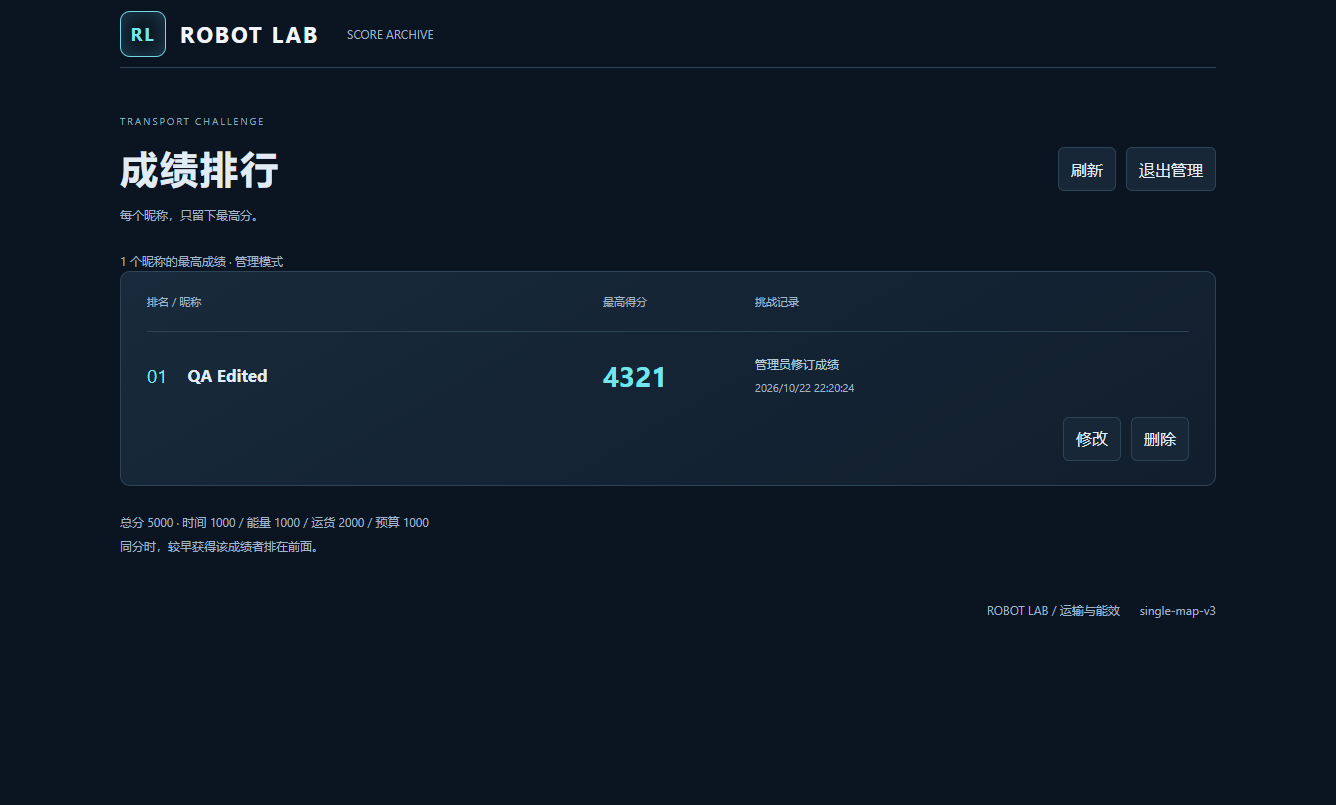
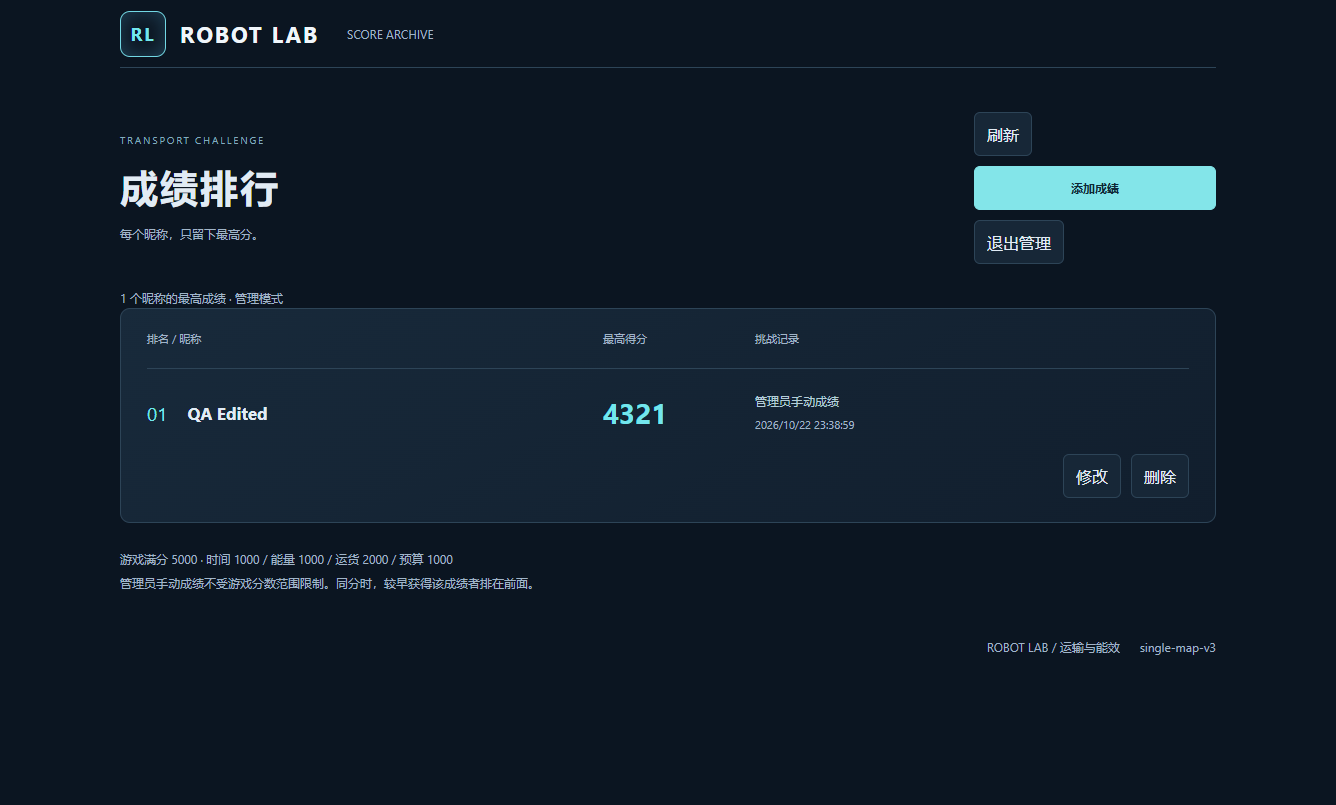
Add admin-created leaderboard entries without game score limits

diff --git a/src/leaderboard/main.ts b/src/leaderboard/main.ts
@@ -1,9 +1,9 @@
 import '../ui/preview.css';
 import './style.css';
-interface Entry {id:string;rank:number;nickname:string;score:number;manual:boolean;achievedAt:string;performance:{elapsedSeconds:number;energyRemainingUnits:number;cargoDelivered:boolean};}
+interface Entry {id:string;rank:number;nickname:string;score:number;manual:boolean;achievedAt:string;performance:{elapsedSeconds:number;energyRemainingUnits:number;cargoDelivered:boolean}|null;}
 interface Board {revision:number;rulesVersion:string;entries:Entry[];}
 const root=document.querySelector<HTMLDivElement>('#leaderboard-app')!;
-root.innerHTML=`<header class="topbar"><div class="brand"><span class="brand-mark">RL</span><span>ROBOT LAB</span></div><span class="muted">SCORE ARCHIVE</span></header><main><section class="board-intro"><div><p class="eyebrow">TRANSPORT CHALLENGE</p><h1>成绩排行</h1><p class="muted">每个昵称，只留下最高分。</p></div><div class="board-actions"><button id="refresh">刷新</button><button id="manage">成绩管理</button><button id="logout" hidden>退出管理</button></div></section><p id="board-status" role="status" class="muted">正在读取成绩…</p><section class="panel board-panel"><div class="board-head"><span>排名 / 昵称</span><span>最高得分</span><span>挑战记录</span></div><div id="entries"></div></section><p class="muted board-note">总分 5000 · 时间 1000 / 能量 1000 / 运货 2000 / 预算 1000<br>同分时，较早获得该成绩者排在前面。</p></main><footer class="preview-footer"><span class="muted">ROBOT LAB / 运输与能效</span><span id="board-version" class="muted"></span></footer><dialog id="admin-dialog" class="board-dialog"><form id="admin-form"><p class="eyebrow">ADMIN ACCESS</p><h2>成绩管理</h2><label for="admin-password">管理密码</label><input id="admin-password" type="password" autocomplete="current-password" required><p id="admin-error" role="alert"></p><div class="dialog-actions"><button type="button" data-close>取消</button><button class="primary" type="submit">登录</button></div></form></dialog><dialog id="edit-dialog" class="board-dialog"><form id="edit-form"><h2>修改成绩</h2><label for="edit-nickname">昵称</label><input id="edit-nickname" maxlength="40" required><label for="edit-score">分数（0–5000）</label><input id="edit-score" type="number" min="0" max="5000" step="1" required><p id="edit-error" role="alert"></p><div class="dialog-actions"><button type="button" data-close>取消</button><button class="primary" type="submit">保存修改</button></div></form></dialog><dialog id="delete-dialog" class="board-dialog"><form id="delete-form"><h2>删除成绩</h2><p id="delete-description"></p><p id="delete-error" role="alert"></p><div class="dialog-actions"><button type="button" data-close>取消</button><button class="danger" type="submit">确认删除</button></div></form></dialog>`;
+root.innerHTML=`<header class="topbar"><div class="brand"><span class="brand-mark">RL</span><span>ROBOT LAB</span></div><span class="muted">SCORE ARCHIVE</span></header><main><section class="board-intro"><div><p class="eyebrow">TRANSPORT CHALLENGE</p><h1>成绩排行</h1><p class="muted">每个昵称，只留下最高分。</p></div><div class="board-actions"><button id="refresh">刷新</button><button id="manage">成绩管理</button><button id="add-entry" class="primary" hidden>添加成绩</button><button id="logout" hidden>退出管理</button></div></section><p id="board-status" role="status" class="muted">正在读取成绩…</p><section class="panel board-panel"><div class="board-head"><span>排名 / 昵称</span><span>最高得分</span><span>挑战记录</span></div><div id="entries"></div></section><p class="muted board-note">游戏满分 5000 · 时间 1000 / 能量 1000 / 运货 2000 / 预算 1000<br>管理员手动成绩不受游戏分数范围限制。同分时，较早获得该成绩者排在前面。</p></main><footer class="preview-footer"><span class="muted">ROBOT LAB / 运输与能效</span><span id="board-version" class="muted"></span></footer><dialog id="admin-dialog" class="board-dialog"><form id="admin-form"><p class="eyebrow">ADMIN ACCESS</p><h2>成绩管理</h2><label for="admin-password">管理密码</label><input id="admin-password" type="password" autocomplete="current-password" required><p id="admin-error" role="alert"></p><div class="dialog-actions"><button type="button" data-close>取消</button><button class="primary" type="submit">登录</button></div></form></dialog><dialog id="edit-dialog" class="board-dialog"><form id="edit-form"><h2 id="entry-title">修改成绩</h2><label for="edit-nickname">昵称</label><input id="edit-nickname" maxlength="40" required><label for="edit-score">分数（整数，不限游戏分数范围）</label><input id="edit-score" type="number" step="1" required><p id="edit-error" role="alert"></p><div class="dialog-actions"><button type="button" data-close>取消</button><button class="primary" type="submit" id="entry-submit">保存修改</button></div></form></dialog><dialog id="delete-dialog" class="board-dialog"><form id="delete-form"><h2>删除成绩</h2><p id="delete-description"></p><p id="delete-error" role="alert"></p><div class="dialog-actions"><button type="button" data-close>取消</button><button class="danger" type="submit">确认删除</button></div></form></dialog>`;
 let board:Board={revision:0,rulesVersion:'',entries:[]},authenticated=false,editing:Entry|null=null,editRevision=0,loading=false;
 const el=<T extends HTMLElement=HTMLElement>(id:string)=>document.getElementById(id) as T;
 class ApiError extends Error {constructor(readonly status:number,message:string){super(message);}}
@@ -13,18 +13,18 @@ async function api(path:string,method='GET',data?:unknown){
 }
 function status(message:string){el('board-status').textContent=message;}
 function render(){
- el('manage').hidden=authenticated;el('logout').hidden=!authenticated;
+ el('manage').hidden=authenticated;el('logout').hidden=!authenticated;el('add-entry').hidden=!authenticated;
  el('board-version').textContent=board.rulesVersion;
  const list=el('entries');list.replaceChildren();
  if(!board.entries.length){const empty=document.createElement('p');empty.className='empty-board';empty.textContent='等待第一份挑战成绩';list.append(empty);}
  for(const entry of board.entries){
-  const row=document.createElement('article');row.className='board-row';row.dataset.id=entry.id;
+  const row=document.createElement('article');row.className='board-row'+(String(entry.score).length>6?' long-score':'');row.dataset.id=entry.id;
   const identity=document.createElement('div');identity.className='board-identity';
   const rank=document.createElement('span');rank.className='rank';rank.textContent=String(entry.rank).padStart(2,'0');
   const name=document.createElement('strong');name.textContent=entry.nickname;identity.append(rank,name);
   const score=document.createElement('strong');score.className='board-score';score.textContent=String(entry.score);
   const metrics=document.createElement('div');metrics.className='board-metrics';
-  const text=document.createElement('span');text.textContent=entry.manual?'管理员修订成绩':`${entry.performance.elapsedSeconds.toFixed(1)} s · 余能 ${entry.performance.energyRemainingUnits.toFixed(1)} · ${entry.performance.cargoDelivered?'已运货':'未运货'}`;
+  const text=document.createElement('span');text.textContent=entry.manual||!entry.performance?'管理员手动成绩':`${entry.performance.elapsedSeconds.toFixed(1)} s · 余能 ${entry.performance.energyRemainingUnits.toFixed(1)} · ${entry.performance.cargoDelivered?'已运货':'未运货'}`;
   const time=document.createElement('small');time.textContent=new Date(entry.achievedAt).toLocaleString('zh-CN',{hour12:false});metrics.append(text,time);
   row.append(identity,score,metrics);
   if(authenticated){const actions=document.createElement('div');actions.className='row-actions';for(const [action,label] of [['edit','修改'],['delete','删除']]){const button=document.createElement('button');button.textContent=label;button.dataset.action=action;button.dataset.id=entry.id;actions.append(button);}row.append(actions);}
@@ -43,10 +43,11 @@ el('logout').onclick=()=>void api('admin/logout','POST',{}).then(()=>{authentica
 root.querySelectorAll<HTMLButtonElement>('[data-close]').forEach(button=>button.onclick=()=>button.closest('dialog')!.close());
 function bindForm(id:string,action:()=>Promise<void>,errorId:string){el<HTMLFormElement>(id).onsubmit=event=>{event.preventDefault();const button=el(id).querySelector<HTMLButtonElement>('button[type=submit]')!;button.disabled=true;el(errorId).textContent='';void action().catch(async error=>{el(errorId).textContent=error.message;if(error instanceof ApiError && error.status===409){await refresh();}if(error instanceof ApiError && error.status===401){authenticated=false;render();}}).finally(()=>button.disabled=false);};}
 bindForm('admin-form',async()=>{await api('admin/login','POST',{password:el<HTMLInputElement>('admin-password').value});el<HTMLInputElement>('admin-password').value='';el<HTMLDialogElement>('admin-dialog').close();await refresh();},'admin-error');
+el('add-entry').onclick=()=>{editing=null;editRevision=board.revision;el('entry-title').textContent='添加成绩';el('entry-submit').textContent='添加成绩';el<HTMLFormElement>('edit-form').reset();el('edit-error').textContent='';el<HTMLDialogElement>('edit-dialog').showModal();};
 el('entries').onclick=event=>{const button=(event.target as HTMLElement).closest<HTMLButtonElement>('button[data-action]');if(!button)return;editing=board.entries.find(e=>e.id===button.dataset.id)??null;if(!editing)return;editRevision=board.revision;
- if(button.dataset.action==='edit'){el<HTMLInputElement>('edit-nickname').value=editing.nickname;el<HTMLInputElement>('edit-score').value=String(editing.score);el('edit-error').textContent='';el<HTMLDialogElement>('edit-dialog').showModal();}
+ if(button.dataset.action==='edit'){el('entry-title').textContent='修改成绩';el('entry-submit').textContent='保存修改';el<HTMLInputElement>('edit-nickname').value=editing.nickname;el<HTMLInputElement>('edit-score').value=String(editing.score);el('edit-error').textContent='';el<HTMLDialogElement>('edit-dialog').showModal();}
  else{el('delete-description').textContent='确定删除“'+editing.nickname+'”的成绩？此操作不可撤销。';el('delete-error').textContent='';el<HTMLDialogElement>('delete-dialog').showModal();}
 };
-bindForm('edit-form',async()=>{if(!editing)return;await api('admin/entries/'+editing.id,'PATCH',{revision:editRevision,nickname:el<HTMLInputElement>('edit-nickname').value,score:Number(el<HTMLInputElement>('edit-score').value)});el<HTMLDialogElement>('edit-dialog').close();await refresh();},'edit-error');
+bindForm('edit-form',async()=>{await api(editing?'admin/entries/'+editing.id:'admin/entries',editing?'PATCH':'POST',{revision:editRevision,nickname:el<HTMLInputElement>('edit-nickname').value,score:Number(el<HTMLInputElement>('edit-score').value)});el<HTMLDialogElement>('edit-dialog').close();await refresh();},'edit-error');
 bindForm('delete-form',async()=>{if(!editing)return;await api('admin/entries/'+editing.id,'DELETE',{revision:editRevision});el<HTMLDialogElement>('delete-dialog').close();await refresh();},'delete-error');
 void refresh();

diff --git a/server/main.ts b/server/main.ts
@@ -10,7 +10,7 @@ import { normalizeNickname } from '../src/domain/identity/nickname';
 
 interface Entry {
   id: string; nickname: string; key: string; score: number; achievedAt: string; updatedAt: string;
-  performance: ChallengePerformance; configuration: Configuration; manual: boolean;
+  performance: ChallengePerformance | null; configuration: Configuration | null; manual: boolean;
 }
 interface Store { version: 1; rulesVersion: string; revision: number; entries: Entry[]; receipts: string[] }
 class HttpError extends Error { constructor(readonly status: number, message: string) { super(message); } }
@@ -22,7 +22,7 @@ let store: Store = existsSync(file) ? JSON.parse(readFileSync(file, 'utf8')) : {
 // Fail closed on malformed data or a rules upgrade; never silently replace existing scores.
 if (store.version !== 1 || store.rulesVersion !== rules.rulesVersion || !Number.isSafeInteger(store.revision)
   || !Array.isArray(store.entries) || !Array.isArray(store.receipts)
-  || store.entries.some(e => !e.id || normalizeNickname(e.nickname).key !== e.key || !Number.isSafeInteger(e.score) || e.score < 0 || e.score > 5000)
+  || store.entries.some(e => !e.id || normalizeNickname(e.nickname).key !== e.key || !Number.isSafeInteger(e.score) || (e.manual !== true && (e.score < 0 || e.score > 5000)))
   || new Set(store.entries.map(e => e.key)).size !== store.entries.length) throw new Error('Invalid or incompatible leaderboard data; restore backup or migrate explicitly.');
 function persist(next: Store) {
   const temporary = file + '.next';
@@ -64,6 +64,10 @@ async function body(req: IncomingMessage): Promise<Record<string, unknown>> {
   const text = Buffer.concat(chunks).toString('utf8');
   try { const data = JSON.parse(text); if (!data || typeof data !== 'object' || Array.isArray(data)) throw 0; return data; }
   catch { throw new HttpError(400, '请求数据无效。'); }
+}
+function manualScore(value: unknown): number {
+  if (!Number.isSafeInteger(value)) throw new HttpError(400, '分数必须是可精确保存的整数。');
+  return value as number;
 }
 function validateRun(input: Record<string, unknown>) {
   const { nickname, key } = normalizeNickname(input.nickname);
@@ -123,6 +127,17 @@ const server = createServer(async (req, res) => {
         entries: improved ? [...store.entries.filter(e => e.key !== run.key),entry] : store.entries });
       reply(res,200,{status:improved?'saved':'unchanged',bestScore:improved?run.score:prior!.score}); return;
     }
+    if (path === '/api/admin/entries' && method === 'POST') {
+      auth(req); const input = await body(req);
+      if (input.revision !== store.revision) throw new HttpError(409, '榜单已更新，请刷新后重试。');
+      const name = normalizeNickname(input.nickname), score = manualScore(input.score);
+      if (store.entries.some(e => e.key === name.key)) throw new HttpError(409, '昵称已有成绩，请使用修改功能。');
+      const now = new Date().toISOString();
+      const entry: Entry = { id: randomUUID(), ...name, score, achievedAt: now, updatedAt: now,
+        performance: null, configuration: null, manual: true };
+      persist({ ...store, revision: store.revision+1, entries: [...store.entries, entry] });
+      reply(res, 200, { ok: true }); return;
+    }
     const match = /^\/api\/admin\/entries\/([a-f0-9-]{36})$/.exec(path);
     if (match && (method === 'PATCH' || method === 'DELETE')) {
       auth(req); const input = await body(req);
@@ -133,8 +148,8 @@ const server = createServer(async (req, res) => {
       if (method === 'PATCH') {
         const name = normalizeNickname(input.nickname);
         if (entries.some(e => e.key === name.key)) throw new HttpError(409, '昵称已有成绩，请使用其他昵称或先删除重复记录。');
-        if (!Number.isSafeInteger(input.score) || (input.score as number)<0 || (input.score as number)>5000) throw new HttpError(400, '分数必须是 0–5000 的整数。');
-        entries = [...entries,{ ...entry, ...name, score: input.score as number, manual:true, updatedAt:new Date().toISOString() }];
+        const score = manualScore(input.score);
+        entries = [...entries,{ ...entry, ...name, score, manual:true, updatedAt:new Date().toISOString() }];
       }
       persist({ ...store, revision:store.revision+1, entries }); reply(res,200,{ok:true}); return;
     }

diff --git a/src/leaderboard/style.css b/src/leaderboard/style.css
@@ -1,1 +1,6 @@
 #leaderboard-app{max-width:1160px;padding:0 32px;margin:auto}.board-intro{display:flex;justify-content:space-between;align-items:center;gap:24px;padding:44px 0 24px}.board-intro h1{font-size:38px;margin:12px 0;letter-spacing:2px}.board-intro p{line-height:1.8}.board-actions,.row-actions,.dialog-actions{display:flex;gap:10px;flex-wrap:wrap}.board-panel{padding:0 26px}.board-head,.board-row{display:grid;grid-template-columns:minmax(0,1fr) 130px minmax(230px,1fr);gap:22px;align-items:center}.board-head{padding:22px 0;font-size:11px;color:var(--muted);border-bottom:1px solid var(--line)}.board-row{padding:24px 0;border-bottom:1px solid var(--line)}.board-row:last-child{border-bottom:0}.board-identity{display:flex;align-items:center;gap:20px;min-width:0}.board-identity strong{overflow-wrap:anywhere;font-size:17px}.rank{font-size:19px;color:#799ba9;font-variant-numeric:tabular-nums}.board-row:nth-child(-n+3) .rank{color:var(--cyan)}.board-score{font-size:28px;color:var(--cyan);font-variant-numeric:tabular-nums}.board-metrics{display:flex;flex-direction:column;gap:8px;font-size:12px;color:#b4cdd8}.board-metrics small{color:var(--muted)}.row-actions{grid-column:1/-1;justify-content:flex-end}.board-note{font-size:12px;line-height:2;margin:24px 0}.empty-board{padding:64px 0;text-align:center;color:var(--muted)}.board-dialog{width:min(430px,calc(100% - 32px));box-sizing:border-box;border:1px solid #54808e;border-radius:12px;background:#112435;color:#dbeaf0;padding:28px}.board-dialog::backdrop{background:#05101dd9;backdrop-filter:blur(6px)}.board-dialog h2{margin:8px 0 26px}.board-dialog label{display:block;margin:18px 0 8px;font-size:13px}.board-dialog input{display:block;box-sizing:border-box;width:100%;padding:12px;background:#0b1927;border:1px solid #54808e;border-radius:6px;color:#dbeaf0;font:inherit}.board-dialog p{font-size:13px;line-height:1.8;overflow-wrap:anywhere}.board-dialog [role=alert]{color:#ffb5a1}.dialog-actions{justify-content:flex-end;margin-top:24px}.dialog-actions .primary{width:auto}.danger{color:#ffb5a1;border-color:#b56d65}.board-dialog button{min-height:44px}#board-status{font-size:12px;min-height:20px;overflow-wrap:anywhere}@media(max-width:650px){#leaderboard-app{padding:0 16px}.board-intro{align-items:flex-start;flex-direction:column;padding-top:24px;gap:12px}.board-intro h1{font-size:30px}.board-panel{padding:0 16px}.board-head,.board-row{grid-template-columns:minmax(0,1fr) 88px;gap:16px}.board-head span:last-child{display:none}.board-metrics{grid-column:1/-1;padding-left:43px}.board-identity{gap:12px}.board-score{font-size:26px}.board-identity strong{font-size:15px}.rank{font-size:17px}.board-row{padding:20px 0}}
+
+/* Give long manual scores a full row so every digit remains readable. */
+.board-score{min-width:0;overflow-wrap:anywhere}.board-dialog input{font-size:16px}
+
+.board-row.long-score .board-score{grid-column:1/-1;grid-row:2;white-space:nowrap;font-size:clamp(18px,5vw,28px)}.board-row.long-score .board-metrics{grid-column:1/-1}

diff --git a/TESTING.md b/TESTING.md
@@ -5,8 +5,8 @@
 - `npm test`：17项领域验证。地图间距、三底盘沙地、两个路口双向触发与路线内部锁定、倒车装货/充能/清障/卸货、双向桥体阻挡、真实驾驶通关、四项评分、空载结算、失败与本地成绩版本隔离。三电机×空载/重载×双向对比验证四足直行快于旁路。
 - `npm run test:physics`：54套四足配置、装卸质量变化、接触摩擦、扰动翻倒/恢复、暂停、时间步等价、IK目标与动画适配器。
 - `npm run test:browser`：11项游戏浏览器验证。独立无头Edge读取生产构建，覆盖根入口/兼容入口、昵称辅助登录、双向路口、低功耗四足真实驾驶通桥/运输/结算、刷新成绩、结算按钮、手机横竖屏、触控/暂停及组件原生滑动。末尾可传部署网址。静态本地测试不启动API，API/UI交互另有专用检查。
-- `npm run test:leaderboard`：8项API验证。规范化昵称只保留最高分、Unicode合并、重复提交、非法/旧规则/测试/评分不一致请求、管理认证、编辑/昵称冲突/过期修订号、删除后旧提交不能恢复、重启持久化与备份。使用临时目录和随机管理密码，不接触真实成绩。
-- `npm run test:leaderboard:browser`：10项UI验证。昵称入口、游戏无榜单链接、更换昵称、离线补传、独立只读榜单、管理登录/编辑/删除/退出、手机横竖屏对话框及页面异常。使用临时API和随机管理密码。新增真实触控按下/松开、失焦收键盘时的视口变化模拟、短视口确认按钮与回车提交检查。
+- `npm run test:leaderboard`：9项API验证。规范化昵称只保留最高分、Unicode合并、重复提交、非法/旧规则/测试/评分不一致请求、管理认证、编辑/昵称冲突/过期修订号、删除后旧提交不能恢复、重启持久化与备份；管理员新增/修改超范围分数、重复昵称及过期修订号拒绝、超高分重启保留、普通成绩不能覆盖更高的手动成绩。使用临时目录和随机管理密码，不接触真实成绩。
+- `npm run test:leaderboard:browser`：11项UI验证。昵称入口、游戏无榜单链接、更换昵称、离线补传、独立只读榜单、管理登录/添加超高分/编辑/删除/退出、手机横竖屏对话框及页面异常。使用临时API和随机管理密码。新增真实触控按下/松开、失焦收键盘时的视口变化模拟、短视口确认按钮与回车提交检查。
 - `node scripts/verify-leaderboard-browser.mjs http://121.199.30.133:3001/`：仅验证公网昵称流程，5项检查，不提交成绩、不进行管理操作。证据在 `nickname-deployed/`。
 - `node deploy/verify-release.mjs`：公网6个页面入口的构建ID、API健康与规则、榜单返回结构、全部当前JS/CSS逐字节哈希。
 

diff --git a/IMPROVEMENT_PLAN.md b/IMPROVEMENT_PLAN.md
@@ -47,7 +47,7 @@
 
 成功完成正式挑战自动提交成绩，失败和测试模式不提交。服务端复用评分算法，验证配置、结算指标和规则版本；相同局ID重复提交不会产生重复纪录。断网时本机暂存，启动、恢复联网或手动重试时补传。
 
-排行榜是独立构建入口 leaderboard.html，沿用深色青蓝UI；游戏内没有入口、链接或跳转，只能直接输入其网址。公共界面只读，按最高分降序、同分先达成者优先。管理员使用独立管理密码登录，可修改昵称和分数、删除纪录，修改冲突时刷新后重试。
+排行榜是独立构建入口 leaderboard.html，沿用深色青蓝UI；游戏内没有入口、链接或跳转，只能直接输入其网址。公共界面只读，按最高分降序、同分先达成者优先。管理员使用独立管理密码登录，可手动添加昵称与成绩、修改昵称和分数、删除纪录；手动录入与修改允许超出游戏0–5000范围的整数，仍需可被JavaScript精确保存。手动新增不伪造挑战数据，以管理员手动成绩显示；重复昵称提示使用修改，修改冲突时刷新后重试。
 
 成绩API与静态游戏分开运行，数据存于服务器持久目录；发布与回滚不得删除或覆盖数据。管理密码仅存忽略的本地文件和服务器私有目录，不提交GitHub。公开昵称并不提供身份所有权；服务端校验评分一致性，不声称防作弊认证。
 
@@ -65,6 +65,6 @@
 
 ## 验收与状态
 
-构建、17项领域验证、11项游戏浏览器验证、8项成绩API验证、10项排行榜浏览器验证及物理回归作为发布门槛。物理回归覆盖54套四足配置；浏览器覆盖桌面和手机横竖屏、真实驾驶、反向选路、原生滑动、昵称入口、补传及管理操作。
+构建、17项领域验证、11项游戏浏览器验证、9项成绩API验证、11项排行榜浏览器验证及物理回归作为发布门槛。物理回归覆盖54套四足配置；浏览器覆盖桌面和手机横竖屏、真实驾驶、反向选路、原生滑动、昵称入口、补传及管理操作。
 
 当前证据与限制见 docs/evidence/single-map/VERIFICATION.md，实际线上构建及回滚信息见 deploy/DEPLOYED.md。旧运行关卡与测试已清理，物理专用场景仅存在于 scripts/physics-fixtures.mjs。

diff --git a/deploy/DEPLOYED.md b/deploy/DEPLOYED.md
@@ -1,3 +1,18 @@
+# 2026-10-22 排行榜手动添加与不限游戏分数范围版部署记录
+
+- 当前构建：build-f7bdf25ee04c-20261022153829443；Git标签single-map-v3.2；计分规则保持single-map-v3。
+- 游戏：http://121.199.30.133:3001/；独立排行榜：http://121.199.30.133:3001/leaderboard.html。游戏内仍无排行榜入口，教程继续暂停。
+- 管理员登录后可添加昵称和成绩；添加、修改与重启数据校验均支持超出游戏0–5000范围的安全整数，允许负数。重复昵称提示使用修改功能，保留一昵称一记录。
+- 手动成绩标记为“管理员手动成绩”，新增记录不伪造挑战数据；手机超长成绩独占一行显示，避免溢出或数字堆叠。
+- 上传包SHA-256：58856b2c7ba70e038a1ae1ac4b72b7166362ef86c3c84e6362762a89d98d9a9b。远端校验后执行deploy/update.sh，静态及API均已切换。
+- 上一构建：build-2b88074d841b-20261022150238621；静态目录、API容器与Nginx配置备份均保留。
+- 本地构建、9项API检查及11项浏览器检查通过。覆盖未登录拒绝添加、重复昵称、并发版本、非法分数、负数编辑、超大整数重启保留、手机布局及管理添加/修改/删除。
+- 公网6个页面、2个API和全部5个当前JS/CSS资源逐字节校验通过；线上以独立QA昵称添加999999分、修改为9007199254740991分后删除，确认现有榜单记录未变。证据见docs/evidence/single-map/leaderboard-admin-deployed.json及deployment-http.json。
+- 成绩文件部署前后SHA-256均为818c8ad55d75ac0b149457c724cb8434daa96647bbea098c2e4798a962891e91；线上QA验证会递增修订号，测试记录已清除。沿用既有管理密码。
+- 回滚须同时恢复上一静态目录、API及/opt/robot-lab/nginx.before-build-f7bdf25ee04c-20261022153829443.conf（原位写入并验证、重载），保留成绩目录；上一补丁的API不支持超出0–5000的手动成绩，已有此类数据时须保留新API或先显式迁移，禁止直接启动旧API。
+
+---
+
 # 2026-10-22 手机昵称确认补丁部署记录
 
 - 当前构建：build-2b88074d841b-20261022150238621；Git标签single-map-v3.1；计分规则保持single-map-v3。

diff --git a/deploy/README.md b/deploy/README.md
@@ -17,6 +17,6 @@
 
 发布后执行 `node deploy/verify-release.mjs` 和 `node scripts/verify-single-map-browser.mjs http://121.199.30.133:3001/`。公网驾驶会提交专用QA昵称成绩，验收后管理员只删除该测试纪录。
 
-管理入口：直接访问 `http://121.199.30.133:3001/leaderboard.html`，点击管理并输入本地密码文件的值。支持修改昵称/分数及删除，分数0–5000，昵称冲突和多人同时修改会提示刷新。密码可通过原位修改服务器私有文件后重启当前API来轮换，重启会使既有管理会话失效。
+管理入口：直接访问 `http://121.199.30.133:3001/leaderboard.html`，点击管理并输入本地密码文件的值。支持手动添加昵称与成绩、修改昵称/分数及删除；管理员成绩不受游戏0–5000范围限制，可输入正负整数（须在JavaScript安全整数范围内）。重复昵称提示使用修改功能；多人同时修改会提示刷新。密码可通过原位修改服务器私有文件后重启当前API来轮换，重启会使既有管理会话失效。
 
 手动回滚须同时恢复静态、Nginx配置和对应API，确保只运行一个写入者，具体目标见 `DEPLOYED.md`。不要回滚或删除持久化成绩；规则变更需显式迁移，API不会静默抹除不兼容数据。
